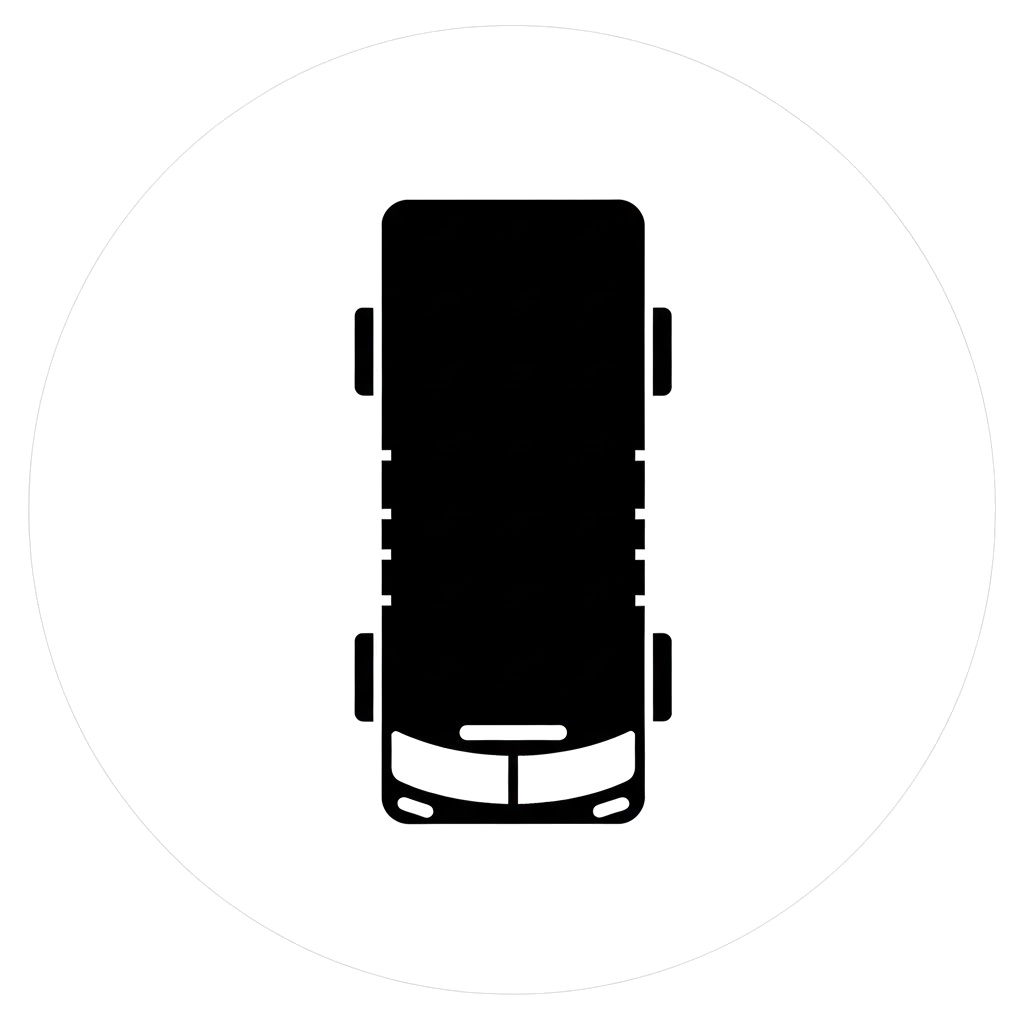
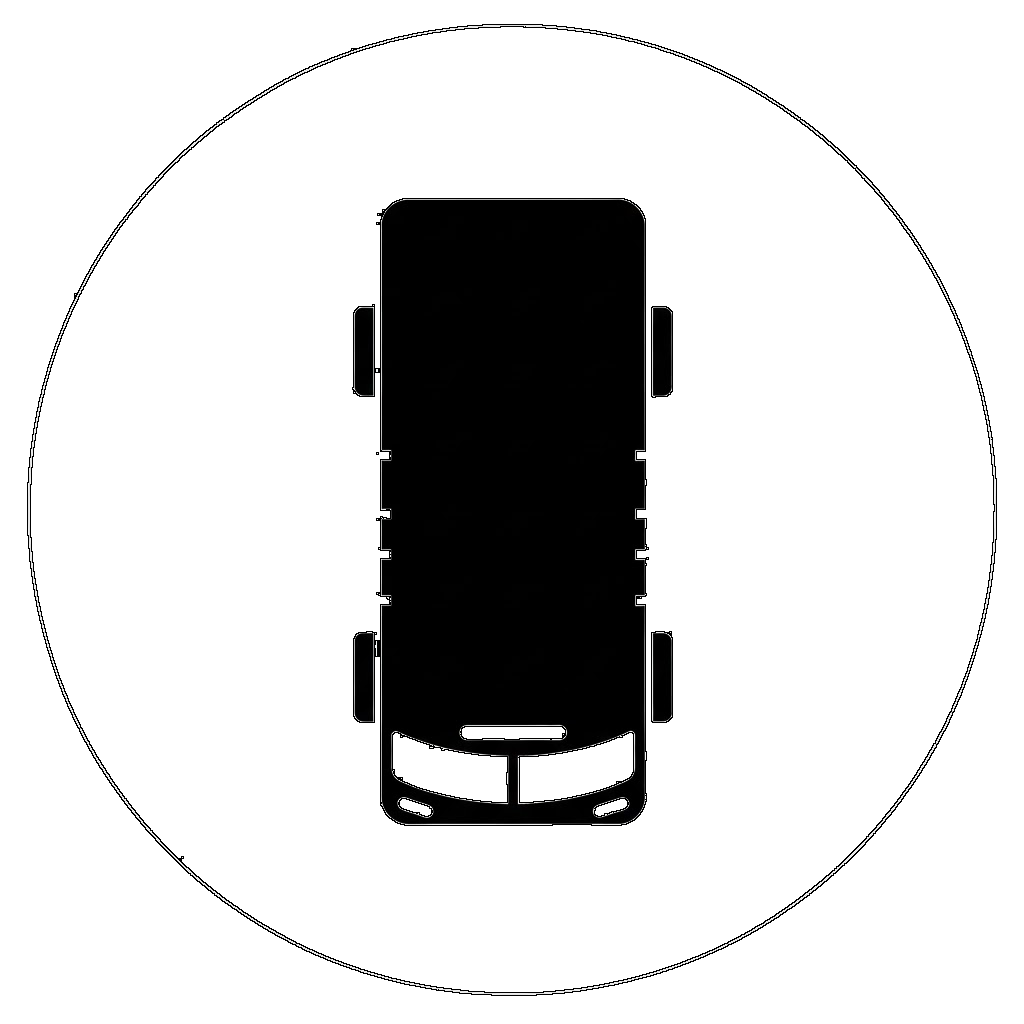
Enlarge BATT bus silhouette and label styling

diff --git a/frontend/src/batt-map/controller.js b/frontend/src/batt-map/controller.js
@@ -11,6 +11,7 @@ const DEFAULT_POLL_MS = 10000;
 const MAX_MARKER_AGE_MS = 60000;
 const MARKER_ANIMATION_DURATION_MS = 4050;
 const MIN_ANIMATION_DISTANCE_METERS = 0.75;
+const BUS_SHAPE_SCALE = 1.25;
 
 export function createBattMapController({ dataClient }) {
   let map = null;
@@ -448,6 +449,18 @@ function shouldForceWhiteArrow(meta) {
   return false;
 }
 
+function shouldForceWhiteOutline(meta) {
+  if (!meta) return false;
+  const candidates = [meta.displayName, meta.id];
+  for (let i = 0; i < candidates.length; i += 1) {
+    const key = normalizeRouteKey(candidates[i]);
+    if (key === '8' || key === '8A' || key === '8B') {
+      return true;
+    }
+  }
+  return false;
+}
+
 function normalizeBearing(value) {
   if (!Number.isFinite(value)) return null;
   let deg = value % 360;
@@ -459,10 +472,11 @@ function createBusIcon(meta = {}, bearing) {
   const scale = 0.82; // 25% larger than the last bus icon scale
   const busScale = Math.max(0.6, Math.min(1.2, scale));
   const label = meta.displayName || meta.id || '?';
-  const background = meta.color || '#444444';
-  const textColor = meta.textColor || computeTextColor(meta.color || '#444444');
+  const background = '#050607';
+  const textColor = meta.color || '#FFFFFF';
+  const outlineColor = shouldForceWhiteOutline(meta) ? '#FFFFFF' : '#000000';
   const safeLabel = sanitizeVehicleText(label, '?');
-  const safeBg = sanitizeColorValue(background, '#444444');
+  const safeBg = sanitizeColorValue(background, '#050607');
   const safeText = sanitizeColorValue(textColor || '#FFFFFF', '#FFFFFF');
   const hasBearing = Number.isFinite(bearing);
   const normalizedBearing = hasBearing ? normalizeBearing(bearing) : null;
@@ -475,16 +489,8 @@ function createBusIcon(meta = {}, bearing) {
   const baseLabelSize = labelLength >= 3 ? 15 : 19;
   const labelScale = Math.max(0.75, Math.min(1, busScale));
   const labelSize = Math.round(baseLabelSize * labelScale);
-  let arrowColor;
-  let arrowStroke = 'rgba(255, 255, 255, 0.8)';
-  if (shouldForceWhiteArrow(meta)) {
-    arrowColor = '#FFFFFF';
-    arrowStroke = '#000000';
-  } else if (textColor && String(textColor).toUpperCase() === '#FFFFFF') {
-    arrowColor = 'rgba(20,20,20,0.88)';
-  } else {
-    arrowColor = textColor || '#222222';
-  }
+  let arrowColor = '#111111';
+  let arrowStroke = 'rgba(255, 255, 255, 0.95)';
   const safeArrow = sanitizeColorValue(arrowColor || '#222222', '#222222');
   const safeArrowStroke = sanitizeColorValue(arrowStroke, 'rgba(255, 255, 255, 0.8)');
 
@@ -496,7 +502,9 @@ function createBusIcon(meta = {}, bearing) {
     `--arrow-color:${safeArrow}`,
     `--arrow-stroke:${safeArrowStroke}`,
     `--bus-scale:${busScale}`,
-    `--bus-rotation:${busRotationValue}`
+    `--bus-rotation:${busRotationValue}`,
+    `--label-outline:${outlineColor}`,
+    `--bus-shape-scale:${BUS_SHAPE_SCALE}`
   ].join(';');
 
   let attrs = `class="vehicle-bus" style="${busStyle};"`;

diff --git a/frontend/src/batt-map/styles.css b/frontend/src/batt-map/styles.css
@@ -125,7 +125,7 @@ body {
   -webkit-mask-position: center;
   mask-position: center;
   transition: background 160ms ease;
-  transform: rotate(var(--bus-rotation, 180deg));
+  transform: rotate(var(--bus-rotation, 180deg)) scale(var(--bus-shape-scale, 1));
   transform-origin: 50% 50%;
 }
 
@@ -144,7 +144,7 @@ body {
   -webkit-mask-position: center top;
   mask-position: center top;
   pointer-events: none;
-  transform: rotate(var(--bus-rotation, 180deg));
+  transform: rotate(var(--bus-rotation, 180deg)) scale(var(--bus-shape-scale, 1));
   transform-origin: 50% 50%;
 }
 
@@ -152,13 +152,14 @@ body {
   position: relative;
   z-index: 2;
   line-height: 1;
+  font-weight: 800;
   text-shadow:
-    -1px -1px 0 rgba(255, 255, 255, 0.95),
-    1px -1px 0 rgba(255, 255, 255, 0.95),
-    -1px 1px 0 rgba(255, 255, 255, 0.95),
-    1px 1px 0 rgba(255, 255, 255, 0.95),
-    0 2px 6px rgba(0, 0, 0, 0.35);
-  color: #000000;
+    -1px -1px 0 var(--label-outline, rgba(0, 0, 0, 0.95)),
+    1px -1px 0 var(--label-outline, rgba(0, 0, 0, 0.95)),
+    -1px 1px 0 var(--label-outline, rgba(0, 0, 0, 0.95)),
+    1px 1px 0 var(--label-outline, rgba(0, 0, 0, 0.95)),
+    0 3px 8px rgba(0, 0, 0, 0.35);
+  color: var(--text-color, #FFFFFF);
 }
 
 .vehicle-arrow {
